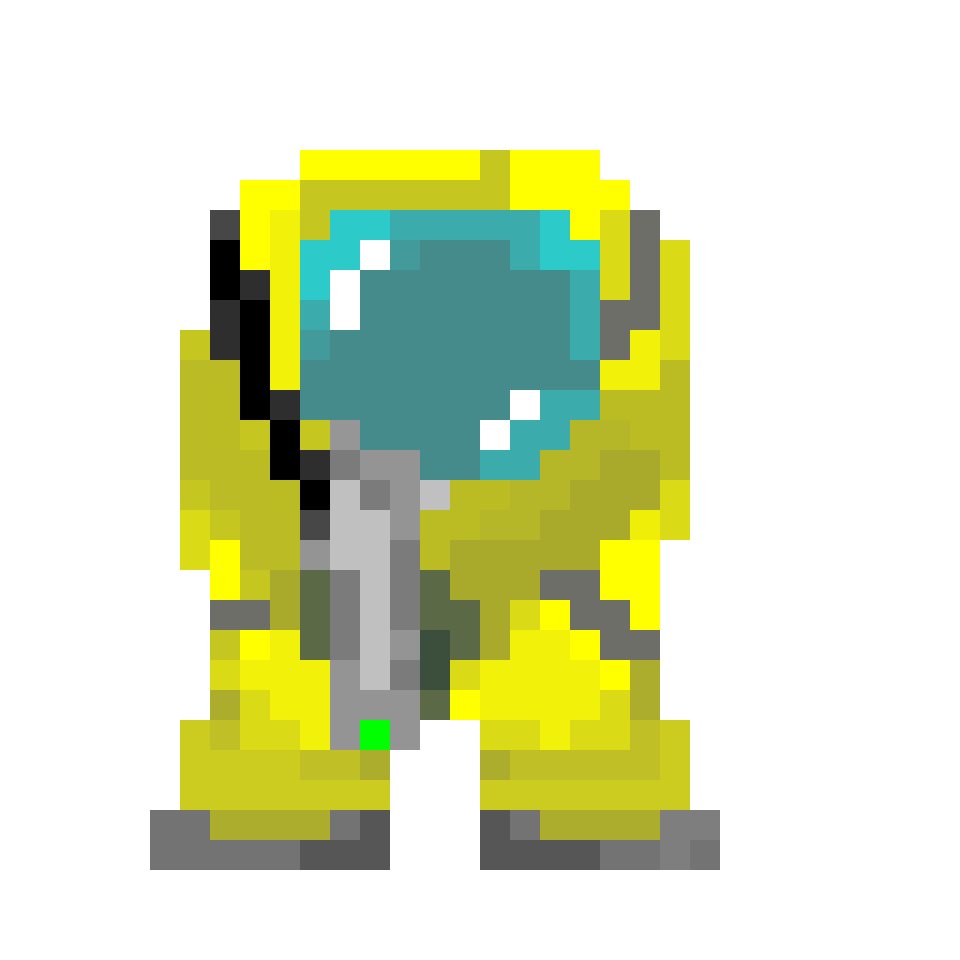
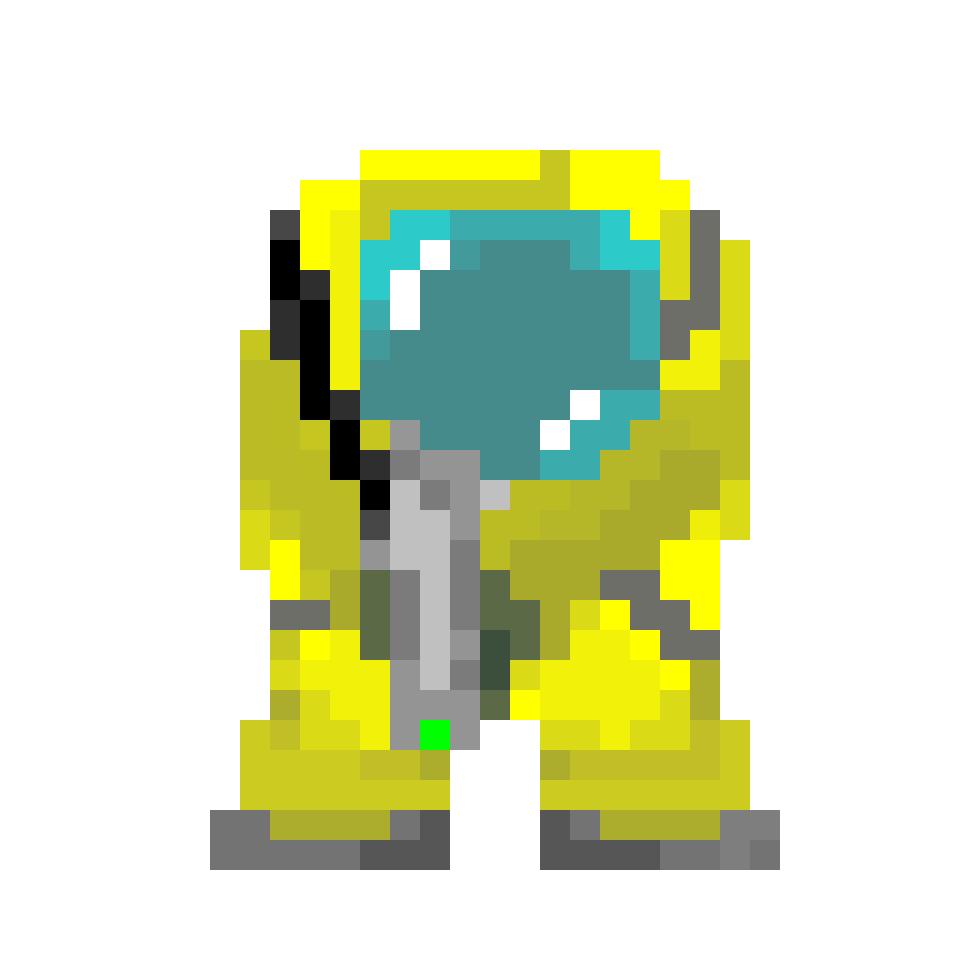
edited some assets

Changed region(s): [[0.1562, 0.1562, 0.8125, 0.9062], [0.625, 0.875, 0.6875, 0.9062], [0.5, 0.1562, 0.5312, 0.1875]]

diff --git a/sketch.js b/sketch.js
@@ -67,7 +67,7 @@ function preload() {
     textures[20] = loadImage("PlatformCUC.png");
     
 
-    playerSprite = loadImage("Downward.png");
+    playerSprite = loadImage("1709495960106.png");
     //playerRight = loadImage("Right.png")
     //playerLeft = loadImage("Left.png")
     //playerDown = loadImage("Down.png")
@@ -294,7 +294,7 @@ class Tile {
         
         text(this.tileID, this.xPos, this.yPos);
     } // I've hidden the DEBUG method but this is where the code for it goes!
-    
+
 }
 
 // class Enemy(){}
